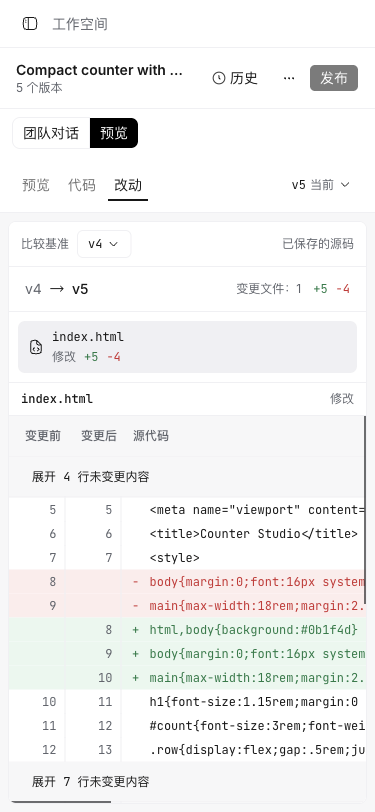
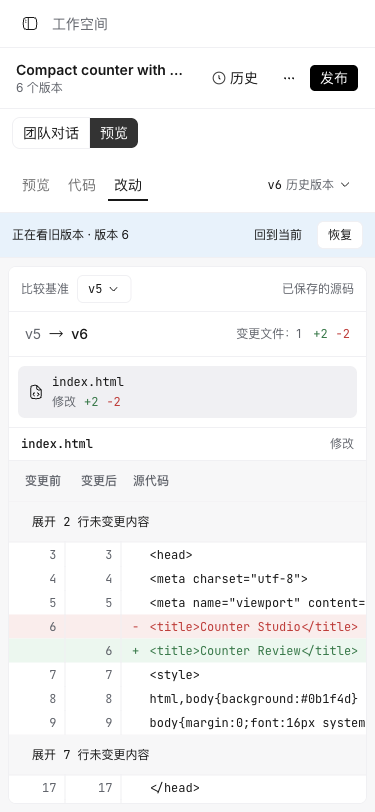
docs: record workspace release

diff --git a/docs/operations/deployment.md b/docs/operations/deployment.md
@@ -2,9 +2,13 @@
 
 ## Current production status
 
-### Pending workspace review release
+### Workspace review release
 
-Local verification of the version-review revision passed against the real API: selectable source baselines, historical preview, restoration and reload, retained composer drafts, desktop/375px layouts, focus restoration, and a delayed historical response that cannot overwrite the selected saved result. Source comparisons and conversation screenshots are linked from the README. These checks do not establish production deployment of this revision.
+Release `b8af77af1bb2` merged in [PR #6](https://github.com/Muluk-m/formlane/pull/6) as `9eac92f5a5fe` after [CI](https://github.com/Muluk-m/formlane/actions/runs/43200579708) passed. The guarded deployment verified the designated personal account and deployed Pages `2f39b259` and Worker `ad185d7e-2e32-4751-888a-81dcd9075542`, with no migrations to apply. The canonical site's `/version.json` reports build `202611121830`, commit `b8af77af1bb2`. The non-root GCP executor is active at `/opt/formlane/releases/workspace-b8af77a`; the previous release remains available for rollback. The runtime remains OpenAI Agents SDK.
+
+Production run/version `6a95da7c-ac5a-4ee2-91ca-47b37b5e0f21` completed on isolated acceptance project `406b274e-e6ce-4886-a62a-b07b83fac69e`, saving version 6 for an ordinary title-only request. Hands-on checks observed 0 → 2 → 1 → 0 through increment, decrement and Reset. Restoring version 5 persisted across reload while all six versions remained available. The canonical site displayed multi-file comparisons; the exact Pages deployment passed desktop/375px source comparison and unsent-draft preservation without horizontal page overflow. No runtime errors were captured during generation, and the existing public market example returned HTTP 200. Updated [desktop](../screenshots/workspace-history-diff.png) and [mobile](../screenshots/workspace-diff-mobile.png) screenshots show the deployed version comparison.
+
+Pre-release browser verification also covered keyboard focus restoration, localized failure presentation and a delayed historical response that cannot overwrite the selected saved result. Those isolated fixtures were removed afterward and did not mutate server data.
 
[1 lines of base64/hex data omitted]
 

diff --git a/README.md b/README.md
@@ -13,7 +13,7 @@ The screenshots show the deployed interface and a persisted real-provider counte
 
 The deployed multi-file workflow is shown in the [React source workspace](docs/screenshots/react-source-production.png) and [375px mobile source view](docs/screenshots/react-source-mobile-production.png).
 
-The version-review workspace adds a persistent history rail, selectable source comparisons and compact execution records: [desktop history and diff](docs/screenshots/workspace-history-diff.png), [conversation and saved result](docs/screenshots/workspace-conversation.png), and [mobile diff](docs/screenshots/workspace-diff-mobile.png). These captures use the revised frontend with real persisted API data.
+The version-review workspace adds a persistent history rail, selectable source comparisons and compact execution records: [deployed desktop history and diff](docs/screenshots/workspace-history-diff.png), [conversation and saved result](docs/screenshots/workspace-conversation.png), and [deployed mobile diff](docs/screenshots/workspace-diff-mobile.png). The conversation capture uses the same frontend with real persisted API data.
 
 ## Features
 
